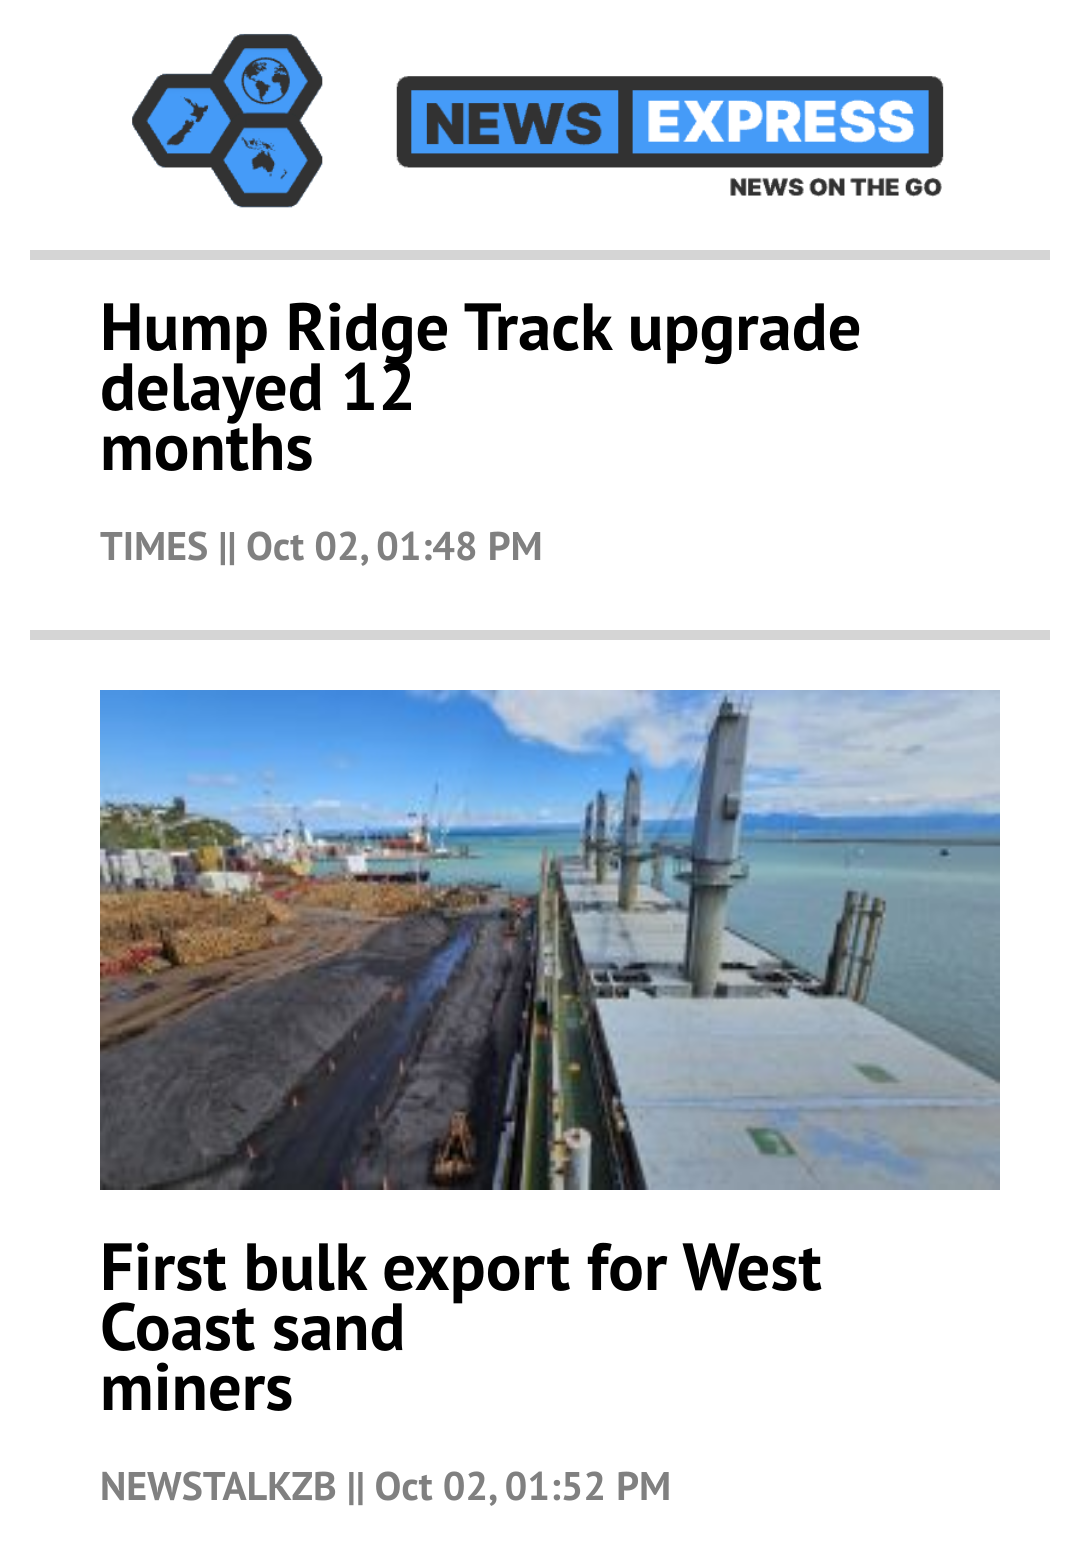
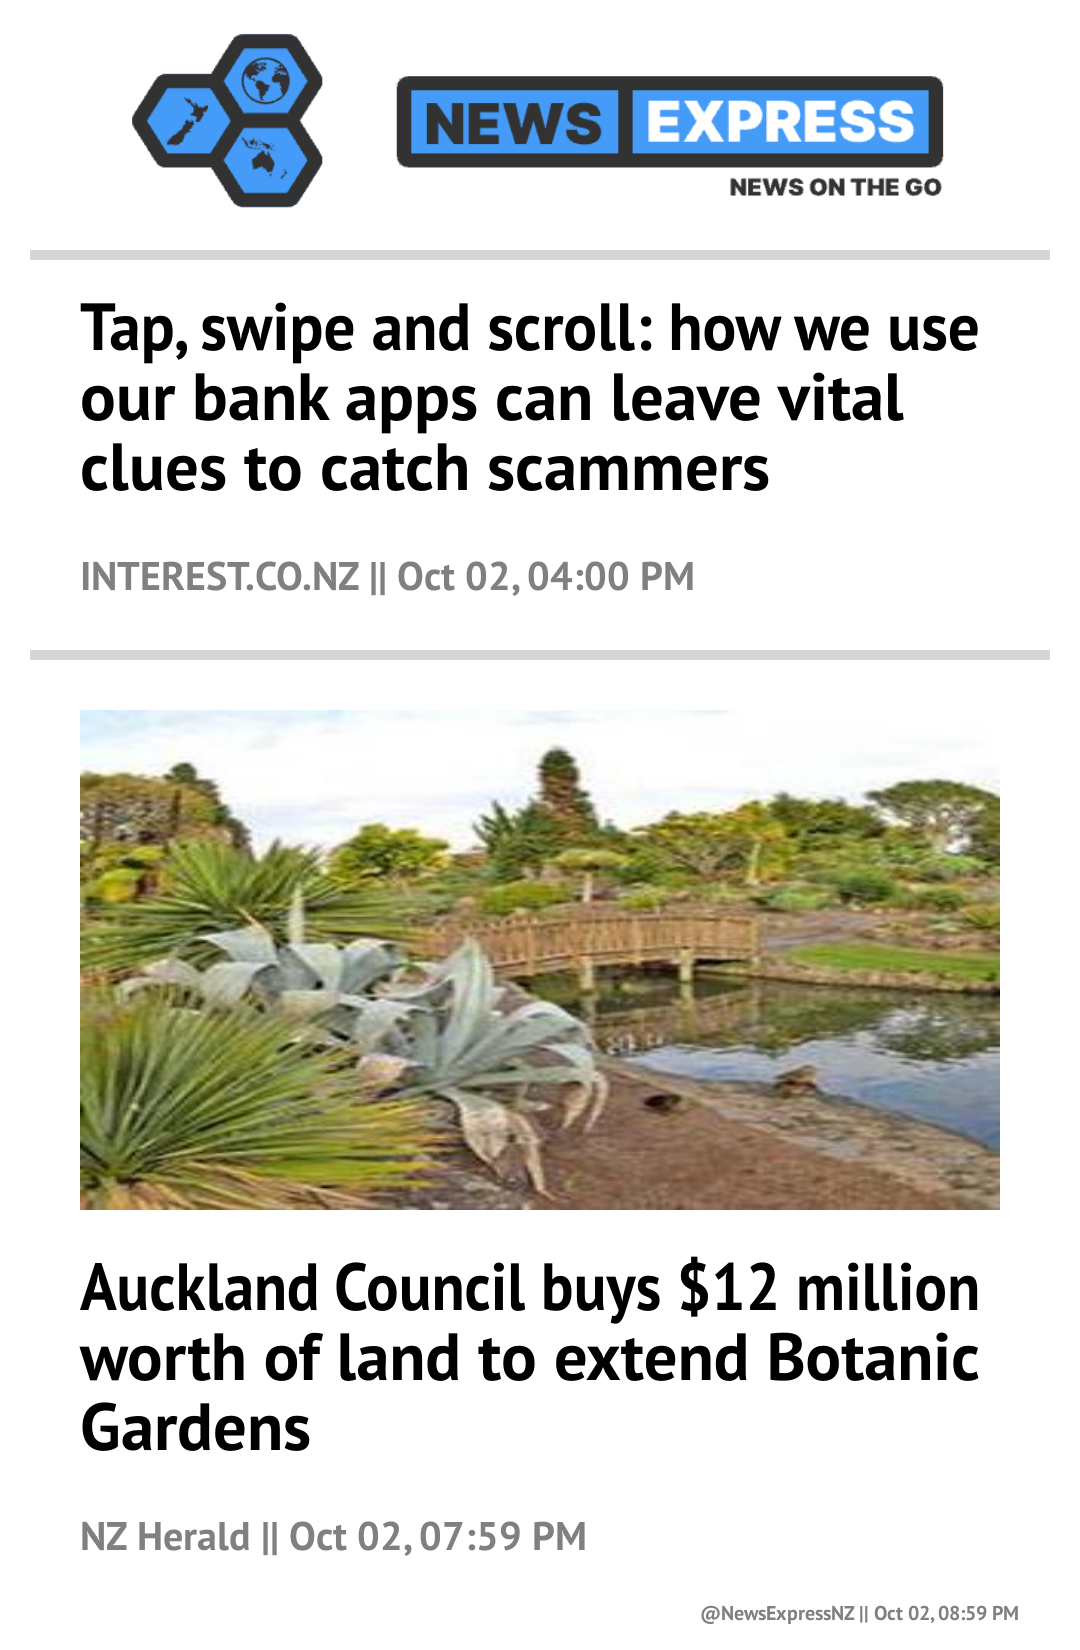
updates to create ad image

diff --git a/server/Ads/CreateAd.js b/server/Ads/CreateAd.js
@@ -8,6 +8,16 @@ const { createCanvas, loadImage } = require("canvas");
 const fs = require("fs");
 const util = require('util');
 
+const options = {
+    day: '2-digit',
+    month: 'short',
+    // year: '2-digit', 
+    hour: '2-digit',
+    minute: '2-digit',
+    hour12: true,
+    timeZone: 'Pacific/Auckland'
+};
+
 async function getNotNews() {
     const timeZone = 'Pacific/Auckland';
     const currentDate = moment().tz(timeZone).startOf('day').toDate();
@@ -57,11 +67,26 @@ async function getNZNews() {
 
     //remove articles with no teaserImageUrl, because we need an image for ad
     for (let f = 0; f < NZNewsArray1.length; f++) {
-        if (NZNewsArray1[f].teaserImageUrl && NZNewsArray1[f].articleSource !== "STUFF") {
+        if (NZNewsArray1[f].teaserImageUrl) {
             NZNewsArray2.push(NZNewsArray1[f]);
         }
     }
     NZNewsArray2 = NZNewsArray2.slice(0, 20);
+
+    //get HD image for stuff
+    for (let m = 0; m < NZNewsArray2.length; m++) {
+        let teaserImageUrl
+        if (NZNewsArray2[m].articleSource === "STUFF") {
+            const teaserImageUrlSpliturlArray = NZNewsArray2[m].teaserImageUrl.split(".");
+            let teaserImageUrlSpliturlArraySliced = teaserImageUrlSpliturlArray.slice(0, 4);
+            teaserImageUrl = `${teaserImageUrlSpliturlArraySliced.join(".")}.related.StuffLandscapeSixteenByNine.1420x800.${teaserImageUrlSpliturlArray[7]}.${teaserImageUrlSpliturlArray[8]}.jpg?format=pjpg&optimize=medium`;
+        }
+        else {
+            teaserImageUrl = NZNewsArray2[m].teaserImageUrl;
+        }
+        NZNewsArray2[m].teaserImageUrl = teaserImageUrl;
+    }
+
     for (let f = 0; f < NZNewsArray2.length; f++) {
         const inputDate = new Date(NZNewsArray2[f].articlePublicationDate);
 
@@ -85,16 +110,17 @@ router.post('/CreateAd', async (req, res) => {
         await createAd();
         return res.json({ status: 'ok' })
     } catch (err) {
-        return res.json({ status: 'error' })
+        return res.json({ status: 'error', message: err.message })
     }
 })
 
 async function createAd() {
     let NZNewsArray = await getNZNews();
     let NotNewsArray = await getNotNews();
+    const formattedDate = new Date().toLocaleDateString('en-US', options);
 
     const width = 1080;
-    const height = 1550;
+    let height = 1650;
 
     const canvas = createCanvas(width, height);
     const context = canvas.getContext("2d");
@@ -102,16 +128,16 @@ async function createAd() {
     context.fillStyle = "#ffffff";
     context.fillRect(0, 0, width, height);
 
-    // const post = {
-    //     testTitle: "notebook1 notebook2 notebooks3 notebook4 notebook5 notebook6 notebook7"
-    // }
+    const post = {
+        testTitle: "Labour still protecting the status quo",
+    }
 
     context.font = "bold 50pt 'PT Sans'";
     context.textAlign = "left";
     context.fillStyle = "#000000";
 
     let Yposition = 250;
-    const lineHeight = 60;
+    const lineHeight = 70;
 
     const randomNum = Math.floor(Math.random() * 18);
     await downloadImage(NZNewsArray[randomNum].teaserImageUrl, './Ads/teaserimage.png');
@@ -133,23 +159,23 @@ async function createAd() {
     //!NEWS
     const NotNews = formatTitle(NotNewsArray[randomNum].articleTitle);
     // const NotNews = formatTitle(post.testTitle);
-    context.fillText(NotNews[0], 100, Yposition, 900);
-    if (NotNews[1]) context.fillText(NotNews[1], 100, Yposition + (lineHeight * 1), 900);
-    if (NotNews[2]) context.fillText(NotNews[2], 100, Yposition + (lineHeight * 2), 900);
+    context.fillText(NotNews[0], 80, Yposition, 900);
+    if (NotNews[1]) context.fillText(NotNews[1], 80, Yposition + (lineHeight * 1), 900);
+    if (NotNews[2]) context.fillText(NotNews[2], 80, Yposition + (lineHeight * 2), 900);
     //display source as per lines of text
     context.font = "bold 30pt 'PT Sans'";
     context.fillStyle = "#808080";
     if (NotNews[0] && !NotNews[1] && !NotNews[2]) {
-        context.fillText(`${NotNewsArray[0].articleSource} || ${NotNewsArray[0].articleAuthor}`, 100, Yposition + (lineHeight * 1) + 30);
-        Yposition = Yposition + (lineHeight * 1) + 100;
+        context.fillText(`${NotNewsArray[randomNum].articleSource} || ${NotNewsArray[randomNum].articleAuthor}`, 80, Yposition + (lineHeight * 1) + 30);
+        Yposition = Yposition + (lineHeight * 1) + 90;
     }
     if (NotNews[0] && NotNews[1] && !NotNews[2]) {
-        context.fillText(`${NotNewsArray[0].articleSource} || ${NotNewsArray[0].articleAuthor}`, 100, Yposition + (lineHeight * 2) + 30);
-        Yposition = Yposition + (lineHeight * 2) + 100;
+        context.fillText(`${NotNewsArray[randomNum].articleSource} || ${NotNewsArray[randomNum].articleAuthor}`, 80, Yposition + (lineHeight * 2) + 30);
+        Yposition = Yposition + (lineHeight * 2) + 90;
     }
     if (NotNews[0] && NotNews[1] && NotNews[2]) {
-        context.fillText(`${NotNewsArray[0].articleSource} || ${NotNewsArray[0].articleAuthor}`, 100, Yposition + (lineHeight * 3) + 30);
-        Yposition = Yposition + (lineHeight * 3) + 100;
+        context.fillText(`${NotNewsArray[randomNum].articleSource} || ${NotNewsArray[randomNum].articleAuthor}`, 80, Yposition + (lineHeight * 3) + 30);
+        Yposition = Yposition + (lineHeight * 3) + 90;
     }
 
     //horizontal line
@@ -161,33 +187,36 @@ async function createAd() {
     context.fillStyle = "#000000";
     context.font = "bold 50pt 'PT Sans'";
     const teaserImagePosition = {
-        w2: 900,
+        w2: 920,
         h2: 500,
-        x2: 100,
+        x2: 80,
         y2: Yposition,
     };
     Yposition = Yposition + 600;
     const NZNews = formatTitle(NZNewsArray[randomNum].articleTitle);
-    // const NZNews = formatTitle(post.testTitle);
-    context.fillText(NZNews[0], 100, Yposition, 900);
-    if (NZNews[1]) context.fillText(NZNews[1], 100, Yposition + (lineHeight * 1), 900);
-    if (NZNews[2]) context.fillText(NZNews[2], 100, Yposition + (lineHeight * 2), 900);
+    context.fillText(NZNews[0], 80, Yposition, 900);
+    if (NZNews[1]) context.fillText(NZNews[1], 80, Yposition + (lineHeight * 1), 900);
+    if (NZNews[2]) context.fillText(NZNews[2], 80, Yposition + (lineHeight * 2), 900);
     //display source as per lines of text
     context.font = "bold 30pt 'PT Sans'";
     context.fillStyle = "#808080";
     if (NZNews[0] && !NZNews[1] && !NZNews[2]) {
-        context.fillText(`${NZNewsArray[0].articleSource} || ${NZNewsArray[0].articleAuthor}`, 100, Yposition + (lineHeight * 1) + 30);
+        context.fillText(`${NZNewsArray[randomNum].articleSource} || ${NZNewsArray[randomNum].articleAuthor}`, 80, Yposition + (lineHeight * 1) + 30);
         Yposition = Yposition + (lineHeight * 1) + 100;
     }
     if (NZNews[0] && NZNews[1] && !NZNews[2]) {
-        context.fillText(`${NZNewsArray[0].articleSource} || ${NZNewsArray[0].articleAuthor}`, 100, Yposition + (lineHeight * 2) + 30);
+        context.fillText(`${NZNewsArray[randomNum].articleSource} || ${NZNewsArray[randomNum].articleAuthor}`, 80, Yposition + (lineHeight * 2) + 30);
         Yposition = Yposition + (lineHeight * 2) + 100;
     }
     if (NZNews[0] && NZNews[1] && NZNews[2]) {
-        context.fillText(`${NZNewsArray[0].articleSource} || ${NZNewsArray[0].articleAuthor}`, 100, Yposition + (lineHeight * 3) + 30);
+        context.fillText(`${NZNewsArray[randomNum].articleSource} || ${NZNewsArray[randomNum].articleAuthor}`, 80, Yposition + (lineHeight * 3) + 30);
         Yposition = Yposition + (lineHeight * 3) + 100;
     }
 
+    //Credits
+    context.fillStyle = "#808080";
+    context.font = "bold 15pt 'PT Sans'";
+    context.fillText(`@NewsExpressNZ || ${formattedDate}`, 700, Yposition);
 
     loadImage("./Ads/teaserimage.png").then((image) => {
         const { w2, h2, x2, y2 } = teaserImagePosition;
@@ -202,7 +231,7 @@ async function createAd() {
         const buffer = canvas.toBuffer("image/png");
         fs.writeFileSync("./Ads/twitteradimage.png", buffer);
     });
-    console.log('Twitter Ad created');
+    console.log('Twitter Ad image created');
 }
 
 async function downloadImage(url, filename) {
@@ -216,22 +245,21 @@ async function downloadImage(url, filename) {
 
 function formatTitle(title) {
     let output = [];
-    if (title.length >= 25) {
+    if (title.length >= 30) {
         const firstLine = getMaxNextLine(title);
         const secondLine = getMaxNextLine(firstLine.remainingChars);
         const thirdLine = getMaxNextLine(secondLine.remainingChars);
         output = [firstLine.line];
-
-        let fmSecondLine = secondLine.line;
-        let fmThirdLine = thirdLine.line;
-        //if title is longer than 150 characters, add the ... character
-        // if (thirdLine.remainingChars.length > 0) fmThirdLine += " ...";
+        let fmSecondLine = [secondLine.line];
         output.push(fmSecondLine);
+
+        let fmThirdLine = [thirdLine.line];
+        //if title is longer than x characters, add the ... character
+        if (thirdLine.remainingChars.length > 0) fmThirdLine += " ...";
+
         output.push(fmThirdLine);
     }
-    // If 20 characters or longer, add the entire second line, using a max of half
-    // the characters, making the first line always slightly shorter than the
-    // second.
+
     else if (title.length >= 10) {
         const firstLine = getMaxNextLine(title);
         output = [firstLine.line, firstLine.remainingChars];
@@ -244,18 +272,29 @@ function formatTitle(title) {
     return output;
 };
 
-function getMaxNextLine(input, maxChars = 25) {
+function getMaxNextLine(input, maxChars = 30) {
     const allWords = input.split(" ");
     const lineIndex = allWords.reduce((prev, cur, index) => {
         if (prev?.done) return prev;
         const endLastWord = prev?.position || 0;
-        const position = endLastWord + 1 + cur.length;
-        return position >= maxChars ? { done: true, index } : { position, index };
+        const position = endLastWord + 1 + cur.length; //+1 is to count space
+        if (position >= maxChars) {
+            return { done: true, index };
+        } else {
+            //issue - last word is selected twice
+            index = index + 1; //FIX if chars are less than maxChars, need to add 1 to index or it will be selected in remaining characters
+            return { position, index };
+        }
     });
 
     const line = allWords.slice(0, lineIndex.index).join(" ");
-    const remainingChars = allWords.slice(lineIndex.index).join(" ");
-    // console.log(lineIndex.index + " line---> " + line, " rem---> " + remainingChars)
+    let remainingChars;
+    // FIX  if only one word, select nothing here because it is already selected above
+    if (allWords.length == 1) {
+        remainingChars = allWords.slice(1).join(" ");
+    } else {
+        remainingChars = allWords.slice(lineIndex.index).join(" ");
+    }
     return { line, remainingChars };
 };
 // https://blog.logrocket.com/creating-saving-images-node-canvas/

diff --git a/client/netlify/functions/adsnetlify.js b/client/netlify/functions/adsnetlify.js
@@ -1,35 +1,35 @@
-const { schedule } = require("@netlify/functions");
-const axios = require('axios')
+// const { schedule } = require("@netlify/functions");
+// const axios = require('axios')
 
-const handler = async function(event, context) {
+// const handler = async function(event, context) {
   
-//create add
-  await axios
-  .post('https://topnews7.vercel.app/api/CreateAd')
-  .then((response) => {
-    if (response.status === 200) {
-      console.log('Create Ad: ', response.data)
-    }
-  })
-  .catch((e) => {
-    console.error(e)
-  })
+// //create add
+//   await axios
+//   .post('https://topnews7.vercel.app/api/CreateAd')
+//   .then((response) => {
+//     if (response.status === 200) {
+//       console.log('Create Ad: ', response.data)
+//     }
+//   })
+//   .catch((e) => {
+//     console.error(e)
+//   })
 
-  //post add
-  await axios
-  .post('https://topnews7.vercel.app/api/PostAd')
-  .then((response) => {
-    if (response.status === 200) {
-      console.log('Post Ad: ', response.data)
-    }
-  })
-  .catch((e) => {
-    console.error(e)
-  })
+//   //post add
+//   await axios
+//   .post('https://topnews7.vercel.app/api/PostAd')
+//   .then((response) => {
+//     if (response.status === 200) {
+//       console.log('Post Ad: ', response.data)
+//     }
+//   })
+//   .catch((e) => {
+//     console.error(e)
+//   })
 
-return {
-    statusCode: 200,
-};
-};
+// return {
+//     statusCode: 200,
+// };
+// };
 
-exports.handler = schedule("@hourly", handler);
+// exports.handler = schedule("@hourly", handler);

diff --git a/server/Ads/PostAd.js b/server/Ads/PostAd.js
@@ -2,7 +2,6 @@ const express = require('express')
 const router = express.Router()
 const { TwitterApi } = require("twitter-api-v2");
 
-
 const client = new TwitterApi({
     appKey: "cISfV86E8UFutenkbehxznw0V",
     appSecret: "Z5uAHCmleWjVfWvZKknA1JPNkc0zHnE4PMTqW5r5Ki6xqSJX0w",
@@ -18,6 +17,7 @@ router.post('/PostAd', async (req, res) => {
         // await postTextTweet();
         return res.json({ status: 'ok' })
     } catch (err) {
+        console.log(err);
         return res.json({ status: 'error' })
     }
 })
